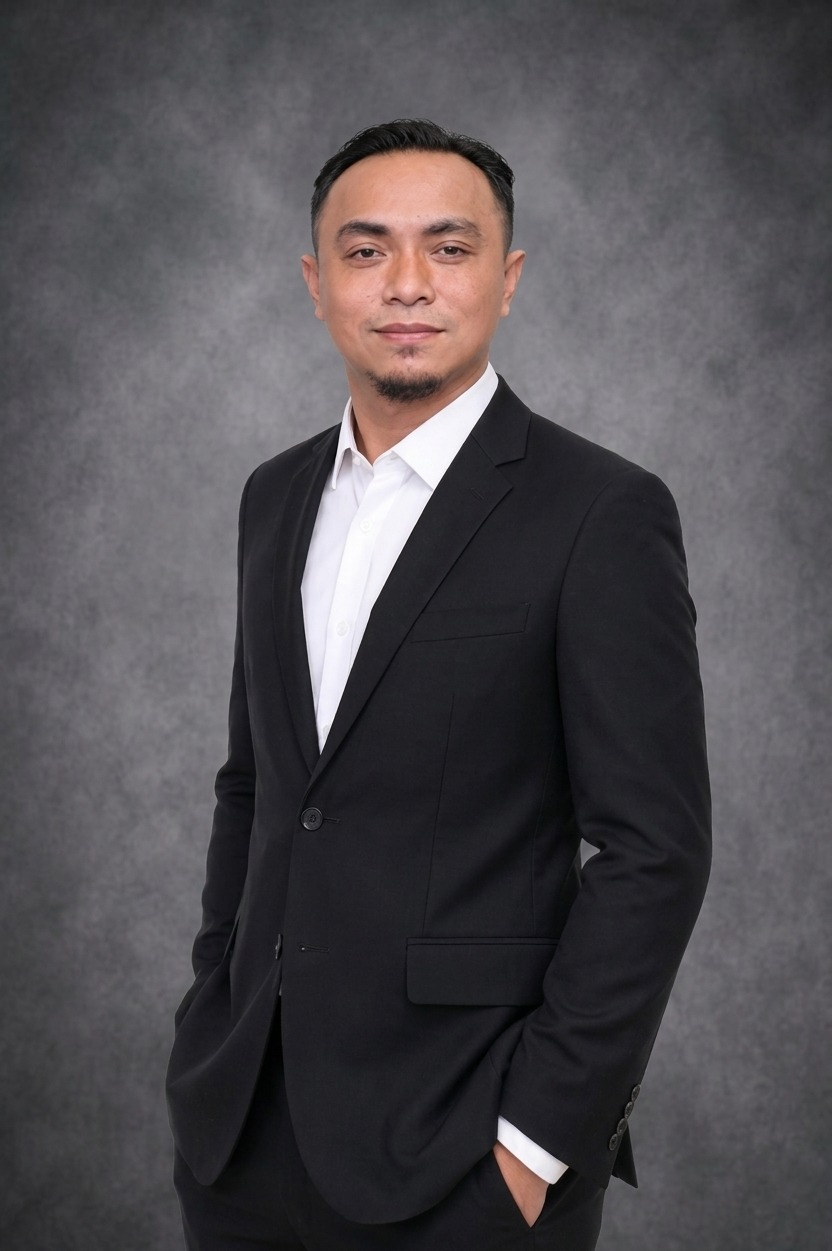
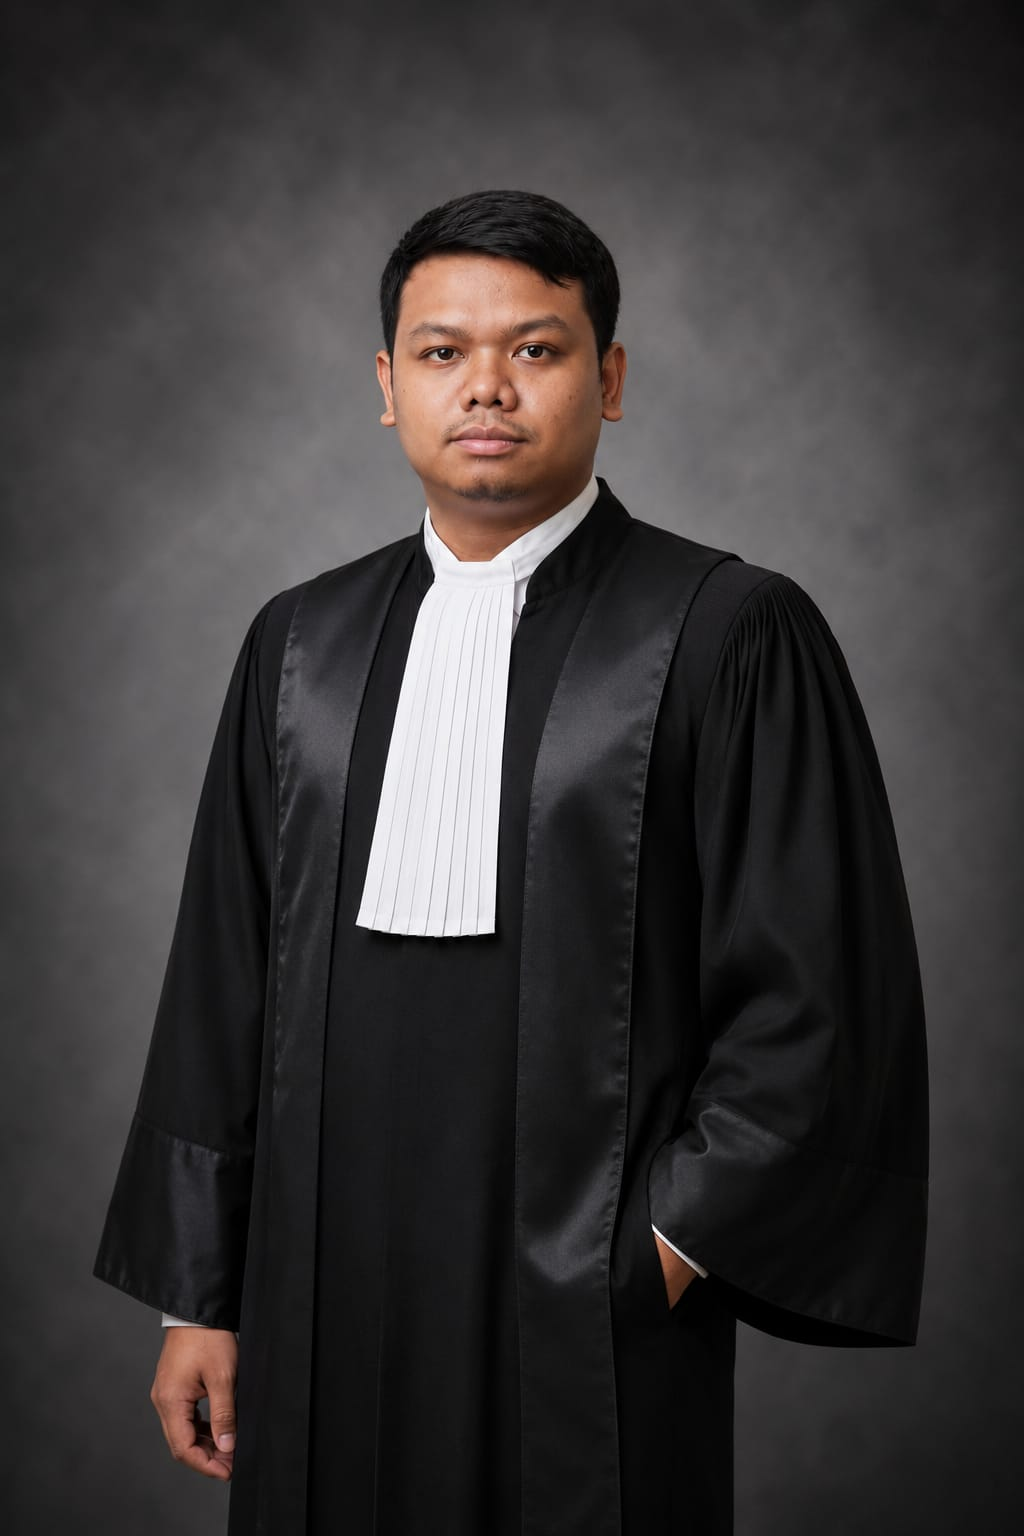
Update Rony photo and remove Heryanto Tagur from team

diff --git a/index.html b/index.html
@@ -935,12 +935,6 @@
                 </div>
 
                 <div class="team-member">
-                    <img src="images/heryanto.jpeg" alt="Heryanto Tagur, S.H." class="team-img">
-                    <h3>Heryanto Tagur, S.H.</h3>
-                    <p class="role">Legal Staff</p>
-                </div>
-
-                <div class="team-member">
                     <img src="images/niken.jpeg" alt="Niken Eka Setiawan, S.H." class="team-img">
                     <h3>Niken Eka Setiawan, S.H.</h3>
                     <p class="role">Legal Staff</p>
